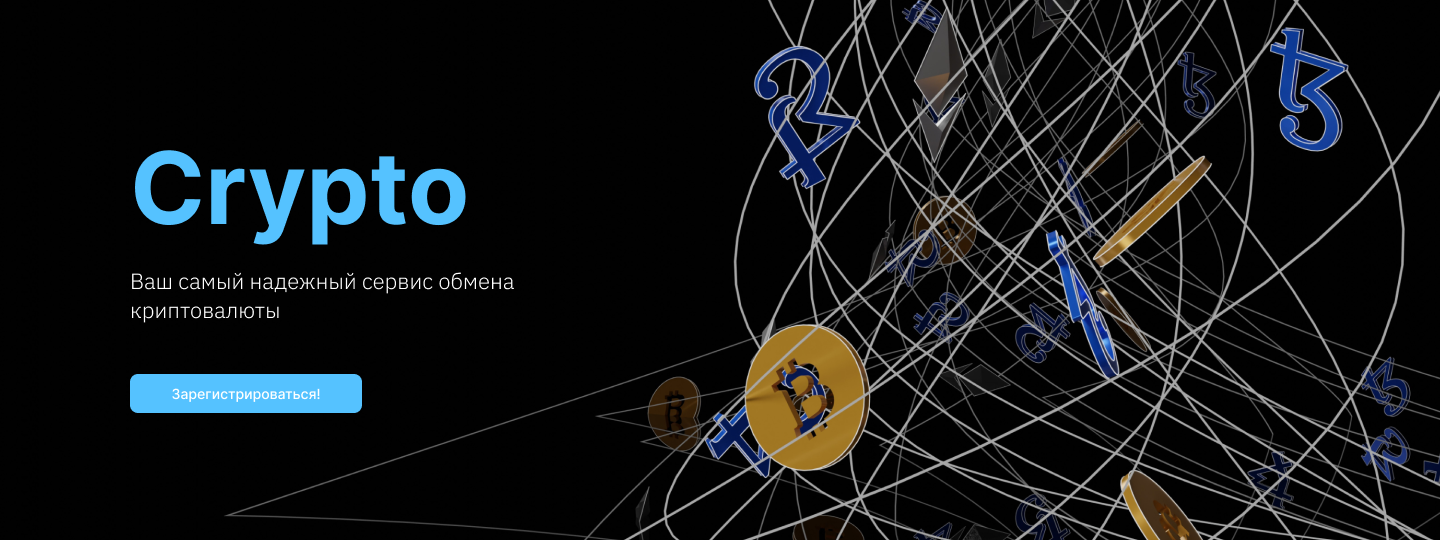
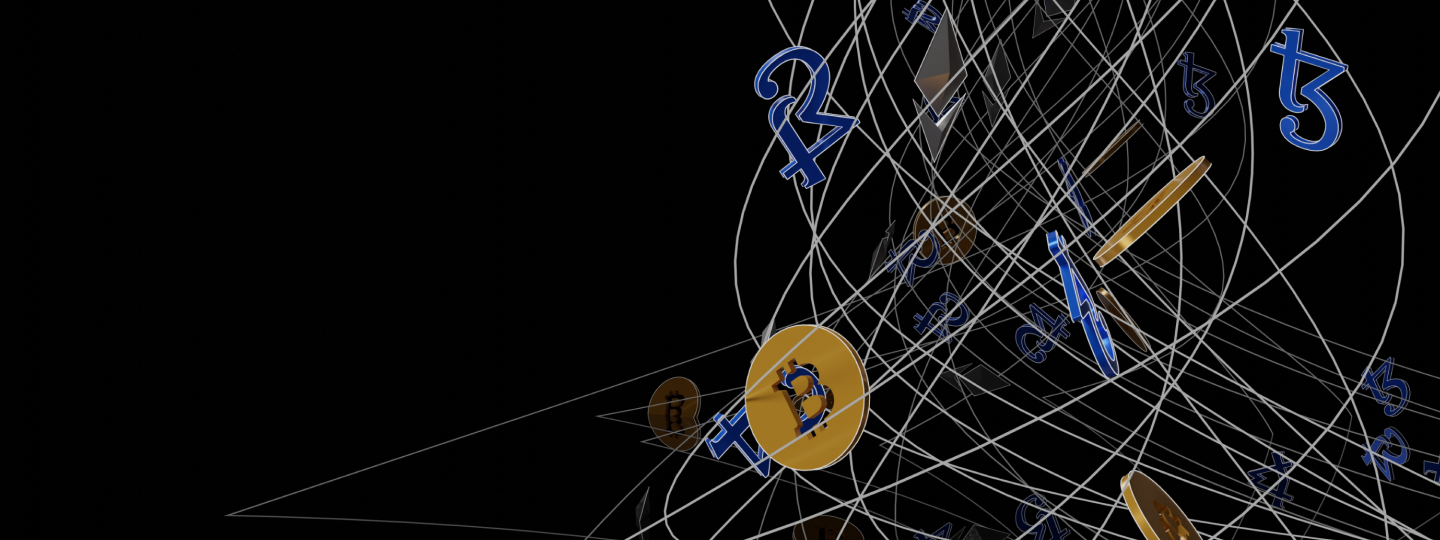
add Day1

diff --git a/css/module/main.css b/css/module/main.css
@@ -1,0 +1,110 @@
+.main{
+    background-image: url(../../img/banner.png);
+    background-repeat:  no-repeat;
+    background-position: center;
+    /*background-size: cover;*/
+}
+.main__container{
+    height: 540px;
+}
+.main__hero{
+    display: flex;
+    flex-direction: column;
+    align-items: flex-start;
+    padding-top: 127px;
+    max-width: 480px;
+}
+.main__hero-title h1{
+    font-weight: 700;
+    font-size: 100px;
+    line-height: 121px;
+    color: #55C2FF;
+}
+.main__hero-subtitle {
+    margin-top: 18px;
+}
+
+.main__hero-subtitle p{
+    font-family: 'IBM Plex Sans';
+    font-weight: 300;
+    font-size: 22px;
+    line-height: 29px;
+    color: #FFFFFF;
+}
+
+.main__hero-btn{
+    margin-top: 50px;
+    padding: 11px 41px;
+    font-weight: 500;
+    font-size: 14px;
+    line-height: 17px;
+    text-align: center;
+    color: #FFFFFF;
+    background: #55C2FF;
+    border-radius: 8px;
+}
+
+.main__hero-btn:hover{
+    outline: 1px solid #1C88EB;
+}
+.main__hero-btn:active{
+    background: #1C88EB;
+}
+.main__hero-btn:disabled{
+    background: #D7D7D7;
+}
+
+@media (max-width: 1024px){
+    .main__container{
+        height: 450px;
+    }
+    .main__hero{
+        padding-top: 92px;
+    }
+    .main__hero-btn{
+        margin-top: 30px;
+    }
+}
+
+@media (max-width: 768px){
+    .main__container{
+        height: 350px;
+    }
+    .main__hero{
+        padding-top: 81px;
+        max-width: 384px;
+    }
+    .main__hero-title h1{
+        font-size: 60px;
+        line-height: 73px;
+    }
+    .main__hero-subtitle {
+        margin-top: 10px;
+    }
+    .main__hero-subtitle p{
+        font-size: 16px;
+        line-height: 21px;
+    }
+    .main__hero-btn{
+        margin-top: 25px;
+    }
+}
+
+@media (max-width: 480px){
+    .main__container{
+        height: 260px;
+    }
+    .main__hero{
+        padding-top: 50px;
+        max-width: 230px;
+    }
+    .main__hero-title h1{
+        font-size: 40px;
+        line-height: 48px;
+    }
+    .main__hero-btn{        
+        padding: 10px 30px;
+        font-size: 12px;
+        line-height: 15px;
+    }
+}

diff --git a/index.html b/index.html
@@ -5,7 +5,13 @@
     <meta http-equiv="X-UA-Compatible" content="IE=edge">
     <meta name="viewport" content="width=device-width, initial-scale=1.0">
     <title>Crypto - учебный лендинг сервиса обмена монет</title>
+    <link rel="preload" href="fonts/ibm-plex-sans-v14-latin_cyrillic-300.woff2" as="font" type="font/woff2" crossorigin>
+    <link rel="preload" href="fonts/inter-v11-latin_cyrillic-500.woff2" as="font" type="font/woff2" crossorigin>
+    <link rel="preload" href="fonts/inter-v11-latin_cyrillic-700.woff2" as="font" type="font/woff2" crossorigin>
+    <link rel="preload" href="fonts/inter-v11-latin_cyrillic-regular.woff2" as="font" type="font/woff2" crossorigin>
+
     <link rel="stylesheet" href="css/index.css">
+    <script src="js/index.js" defer></script>
 </head>
 <body>
     <header class="header">
@@ -28,7 +34,21 @@
             </nav>
         </div>
     </header>
-    <main></main>
+    <main class="main">
+        <div class="container main__container">
+            <div class="main__hero">
+                <div class="main__hero-title">
+                    <h1>Crypto</h1>
+                </div>
+                <div class="main__hero-subtitle">
+                    <p>Ваш самый надежный сервис обмена криптовалюты</p>
+                </div>
+                <button class="main__hero-btn">
+                    Зарегистрироваться!
+                </button>
+            </div>
+        </div>
+    </main>
     <footer></footer>
 </body>
 </html>

diff --git a/css/fonts.css b/css/fonts.css
@@ -1,0 +1,35 @@
+@font-face {
+    font-family: Inter;
+    src: url('../fonts/inter-v11-latin_cyrillic-regular.woff2') format('woff2'),
+        url('../fonts/inter-v11-latin_cyrillic-regular.woff') format('woff');
+    font-style: normal;
+    font-weight: 400;
+    font-display: swap;
+}
+
+@font-face {
+    font-family: Inter;
+    src: url('../fonts/inter-v11-latin_cyrillic-500.woff2') format('woff2'),
+        url('../fonts/inter-v11-latin_cyrillic-500.woff') format('woff');
+    font-style: normal;
+    font-weight: 500;
+    font-display: swap;
+}
+
+@font-face {
+    font-family: Inter;
+    src: url('../fonts/inter-v11-latin_cyrillic-700.woff2') format('woff2'),
+        url('../fonts/inter-v11-latin_cyrillic-700.woff') format('woff');
+    font-style: normal;
+    font-weight: 700;
+    font-display: swap;
+}
+
+@font-face {
+    font-family: 'IBM Plex Sans';
+    src: url('../fonts/ibm-plex-sans-v14-latin_cyrillic-300.woff2') format('woff2'),
+        url('../fonts/ibm-plex-sans-v14-latin_cyrillic-300.woff2') format('woff');
+    font-style: normal;
+    font-weight: 300;
+    font-display: swap;
+}

diff --git a/css/module/navigation.css b/css/module/navigation.css
@@ -14,3 +14,16 @@
         max-width: 740px;
     }
 }
+
+@media (max-width: 480px){
+    .navigation__list{
+        padding-left: 15px;
+        padding-right: 15px;
+        flex-direction: row;
+        align-items: flex-start;
+    }
+    .navigation__item{
+        margin-bottom: 20px;
+        margin-right: 0;        
+    }
+}

diff --git a/js/index.js b/js/index.js
@@ -1,0 +1,8 @@
+'use strict';
+
+const headerNavBtn = document.querySelector('.header__nav-btn'),
+    headerNavigation = document.querySelector('.header__navigation');
+
+headerNavBtn.addEventListener('click', () => {
+    headerNavigation.classList.toggle('header__navigation_open');
+});

diff --git a/css/index.css b/css/index.css
@@ -3,5 +3,5 @@
 @import 'default.css';
 @import './module/header.css';
 @import './module/navigation.css';
+@import './module/main.css';
 
-/* 1:07:00*/

diff --git a/css/default.css b/css/default.css
@@ -20,6 +20,7 @@ img, svg{
 }
 button{
     padding: 0;
+    border: none;
     cursor: pointer;
 }
 a{
